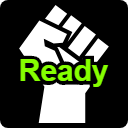
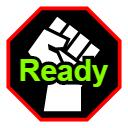
- Clicking Sniper button now always shows the red flash, whether there are spotted infiltrators or not.
- Fixed bug that made lightning conflict with lamps and cameras revealing infiltrators.
     - Not 100% resolved yet, Tarik will handle the rest.

- Modified look of Ready button to look more like an actual button.

diff --git a/Comp476Project/Assets/Scripts/InGamePanel.cs b/Comp476Project/Assets/Scripts/InGamePanel.cs
@@ -332,6 +332,9 @@ public class InGamePanel : MonoBehaviour
     // Have sniper kill a random infiltrator that is spotted
     void OneHitKO()
     {
+        // Flash screen (regardless of having any spotted infiltrators or not)
+        startFlash = true;
+
         // Get a hold of all the infiltrators
         GameObject[] infiltrators = GameObject.FindGameObjectsWithTag("Bad");
 
@@ -351,9 +354,6 @@ public class InGamePanel : MonoBehaviour
 
             // Kill the character
             target.GetComponent<Character>().TakeSniperDamage();
-            
-            // Flash screen
-            startFlash = true;
 
             // Clear list once finished
             spottedInfiltrators.Clear();

diff --git a/Comp476Project/Assets/Scripts/PlayerManager.cs b/Comp476Project/Assets/Scripts/PlayerManager.cs
@@ -341,7 +341,9 @@ public class PlayerManager : NetworkBehaviour
                 infiltrator.gameObject.GetComponent<Character>().ToggleVisibility(isSpotted);
 
                 // Show infiltrators when lightning flashes.
-                infiltrator.gameObject.GetComponent<Character>().ToggleVisibility(lightning.GetComponent<Lightning>().showInfiltrators);
+
+                // ----- CURRENTLY BUGGED, BUT TARIK WILL FIX -----
+                //infiltrator.gameObject.GetComponent<Character>().ToggleVisibility(lightning.GetComponent<Lightning>().showInfiltrators);
             }
         }
 
